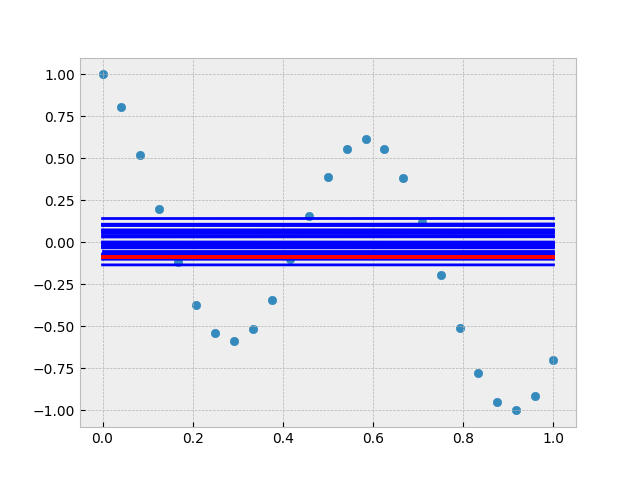
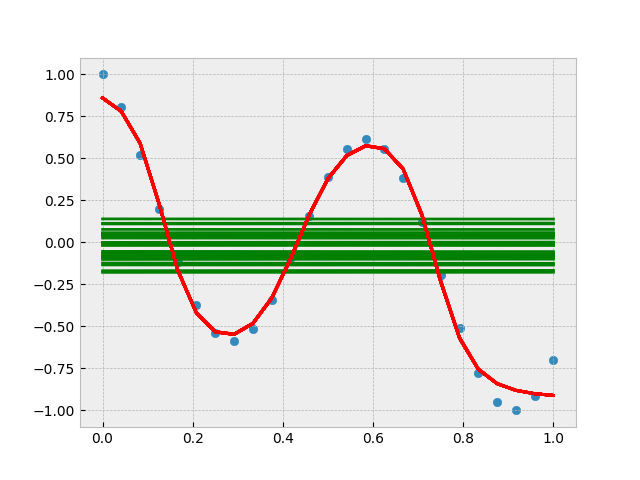
finished evolving neural nets

diff --git a/neural_nets/test_nets.py b/neural_nets/test_nets.py
@@ -1,4 +1,6 @@
 from neural_nets import *
+import matplotlib.pyplot as plt
+plt.style.use('bmh')
 
 data = [(0.0, 7), (0.2, 5.6), (0.4, 3.56), (0.6, 1.23), (0.8, -1.03),
         (1.0, -2.89), (1.2, -4.06), (1.4, -4.39), (1.6, -3.88), (1.8, -2.64),
@@ -14,115 +16,24 @@ act_funct = lambda x: math.tanh(x)
 
 net_field = NeuralNetField(node_num, act_funct, data, 30)
 
-rss_gen_avg = net_field.evolve(100)
-#print(rss_gen_avg)
-#'''
-'''
-x_data = [x for (x,y) in data]
-y_data = [y for (x,y) in data]
-
-x_min_max = (min(x_data), max(x_data))
-y_min_max = (min(y_data), max(y_data))
-
-normalized = []
-
-for (x,y) in data :
-    norm_x = (x-x_min_max[0])/(x_min_max[1] - x_min_max[0])
-    norm_y = (y-y_min_max[0])/(y_min_max[1] - y_min_max[0])
-    normalized.append((norm_x, 2*norm_y-1))
-
-node_num = [1, 10, 6, 3, 1]
-net_set = []
-
-for layer_num in range(len(node_num)) :
-    if layer_num != 0 :
-        net_set[layer_num - 1].append('bias')
-    net_set.append([node for node in range(node_num[layer_num])])
-
-def make_weights() :
-    weights = {}
-    for layer_num in range(1, len(node_num)) :
-        cur_amnt = node_num[layer_num] + 1
-        if layer_num == len(node_num) - 1 :
-            cur_amnt -= 1
-        prev_amnt = node_num[layer_num -1 ] + 1
-        weights[layer_num-1] = [[uniform(-2, 2)/10 for _ in range(cur_amnt)] for __ in range(prev_amnt)]
-    return weights
-
-#act_funct = (lambda x: (math.e**x - math.e ** (-x)) / (math.e**x + math.e ** (-x)))
-act_funct = lambda x: math.tanh(x)
-
-net_field = [NeuralNet(net_set, make_weights(), act_funct, normalized.copy(), 0.05) for _ in range(30)]
-
-def find_lowest_rss(amount, field) :
-    rss_count = []
-    for net_id in range(len(field)) :
-        rss_count.append((net_id, field[net_id].calc_rss()))
-    rss_count.sort(key=(lambda x: x[1]))
-    return rss_count[:amount]
-
-weight_amount = 111
-
-def reproduce(parent, amount=1) :
-    children_data = [{'nodes': parent.nodes, 'weights': {}, 'mutate': 0} for num in range(amount)]
-    for child_id in range(amount) :
-        child = children_data[child_id]
-        for (connect, weight) in parent.weights.items() :
-            child['weights'][connect] = weight * parent.mut_rate * normal(0,1)
-        child['mutate'] = parent.mut_rate ** (normal(0,1) / (2**(1/2) * weight_amount ** (1/4)))
-    return children_data
-    
-
-
-rss_gen_avg = {}
-
-current_generation = net_field.copy()
-
-for gen in range (100) :
-    if gen % 10 == 0 :
-        print(gen)
-    gen_avg = [net.calc_rss() for net in current_generation]
-    rss_gen_avg[gen] = sum(gen_avg) / len(gen_avg)
-    next_gen = [current_generation[net_id] for (net_id, rss) in find_lowest_rss(15, current_generation)]
-    children = []
-    for parent in next_gen :
-        child = reproduce(parent)
-        #print(child)
-        child = [NeuralNet(kid['nodes'], kid['weights'], act_funct, normalized.copy(), kid['mutate'], True) for kid in child]
-        children.extend(child)
-    next_gen.extend(children)
-    current_generation = next_gen
-#'''
-import matplotlib.pyplot as plt
-plt.style.use('bmh')
-
-'''
-x_axis = [point[0] for point in normalized]
-y_axis = [point[1] for point in normalized]
-
-plt.scatter(x_axis, y_axis)
-
-for net in net_field :
-    plt.plot(x_axis, [net.calc_ans(x) for x in x_axis], 'b-')
-
-for net in current_generation : 
-    plt.plot(x_axis, [net.calc_ans(x) for x in x_axis], 'r-')
-
-plt.savefig('neural_nets/change.png')
-#'''
-#'''
 x_axis = [point[0] for point in net_field.data]
 y_axis = [point[1] for point in net_field.data]
 
 plt.scatter(x_axis, y_axis)
 
-for net in net_field.first_gen :
-    plt.plot(x_axis, [net.calc_ans(x) for x in x_axis], 'b-')
+for net in net_field.curr_gen :
+    plt.plot(x_axis, [net.calc_ans(x) for x in x_axis], 'g-')
+
+
+rss_gen_avg = net_field.evolve(2000)
+#print(rss_gen_avg)
+#'''
+#'''
 
 for net in net_field.curr_gen : 
     plt.plot(x_axis, [net.calc_ans(x) for x in x_axis], 'r-')
 
-plt.savefig('neural_nets/change2.png')
+plt.savefig('neural_nets/change.png')
 #'''
 
 plt.clf()

diff --git a/neural_nets/neural_nets.py b/neural_nets/neural_nets.py
@@ -124,7 +124,6 @@ class NeuralNetField ():
         self.create_nodes(layers, act_funct)
 
         self.num_weights = 111
-        self.first_gen = []
         self.curr_gen = []
 
         self.create_gen(amount)
@@ -191,45 +190,22 @@ class NeuralNetField ():
         for (connect, weight) in parent.weights.items() :
             child['weights'][connect] = weight + parent.mut_rate * normal()
         child['mutate'] = parent.mut_rate * math.exp(normal() / (2**(1/2) * self.num_weights ** (1/4)))
-        #child['mutate'] = parent.mut_rate
+
         return child
 
     def evolve(self, gens) :
         rss_gen_avg = {}
         for gen in range(gens) :
-            if gen % 10 == 0 :
+            if gen % 100 == 0 :
                 print(gen)
             gen_avg = [net.calc_rss() for net in self.curr_gen]
-            '''
-            gen_avg = []
-            for id, net in enumerate(self.curr_gen) :
-                rss = net.calc_rss()
-                print('Id: {}, RSS: {}'.format(id, rss))
-                gen_avg.append(rss)
-            #'''
             rss_gen_avg[gen] = sum(gen_avg) / len(gen_avg)
+
             self.curr_gen.sort(key=(lambda x: x.calc_rss()))
-            #next_gen = [self.curr_gen[net_id] for (net_id, rss) in self.find_lowest_rss(15, self.curr_gen)]
-            '''
-            next_gen = []
-            chosen = []
-            best_rss = []
-            for (net_id, rss) in self.find_lowest_rss(15, self.curr_gen) :
-                next_gen.append(self.curr_gen[net_id])
-                chosen.append(net_id)
-                best_rss.append(rss)
-            print('Selected Ids: {}'.format(chosen))
-            print(sum(best_rss) / 15)
-            print()
-            #'''
-            #children = []
             for id in range(0, 15) :
                 child = self.reproduce(self.curr_gen[id])
                 self.curr_gen[id+15].weights = child['weights']
                 self.curr_gen[id+15].mut_rate = child['mutate']
-                #children.append(child)
-            #next_gen.extend(children)
-            #self.curr_gen = next_gen
         return rss_gen_avg
         
     def calc_ans(self, input) :
@@ -239,5 +215,4 @@ class NeuralNetField ():
         for _ in range(amount) :
             net = NeuralNet(self.nodes, None, self.data, 0.05)
             self.curr_gen.append(net)
-            self.first_gen.append(net)
 #'''
